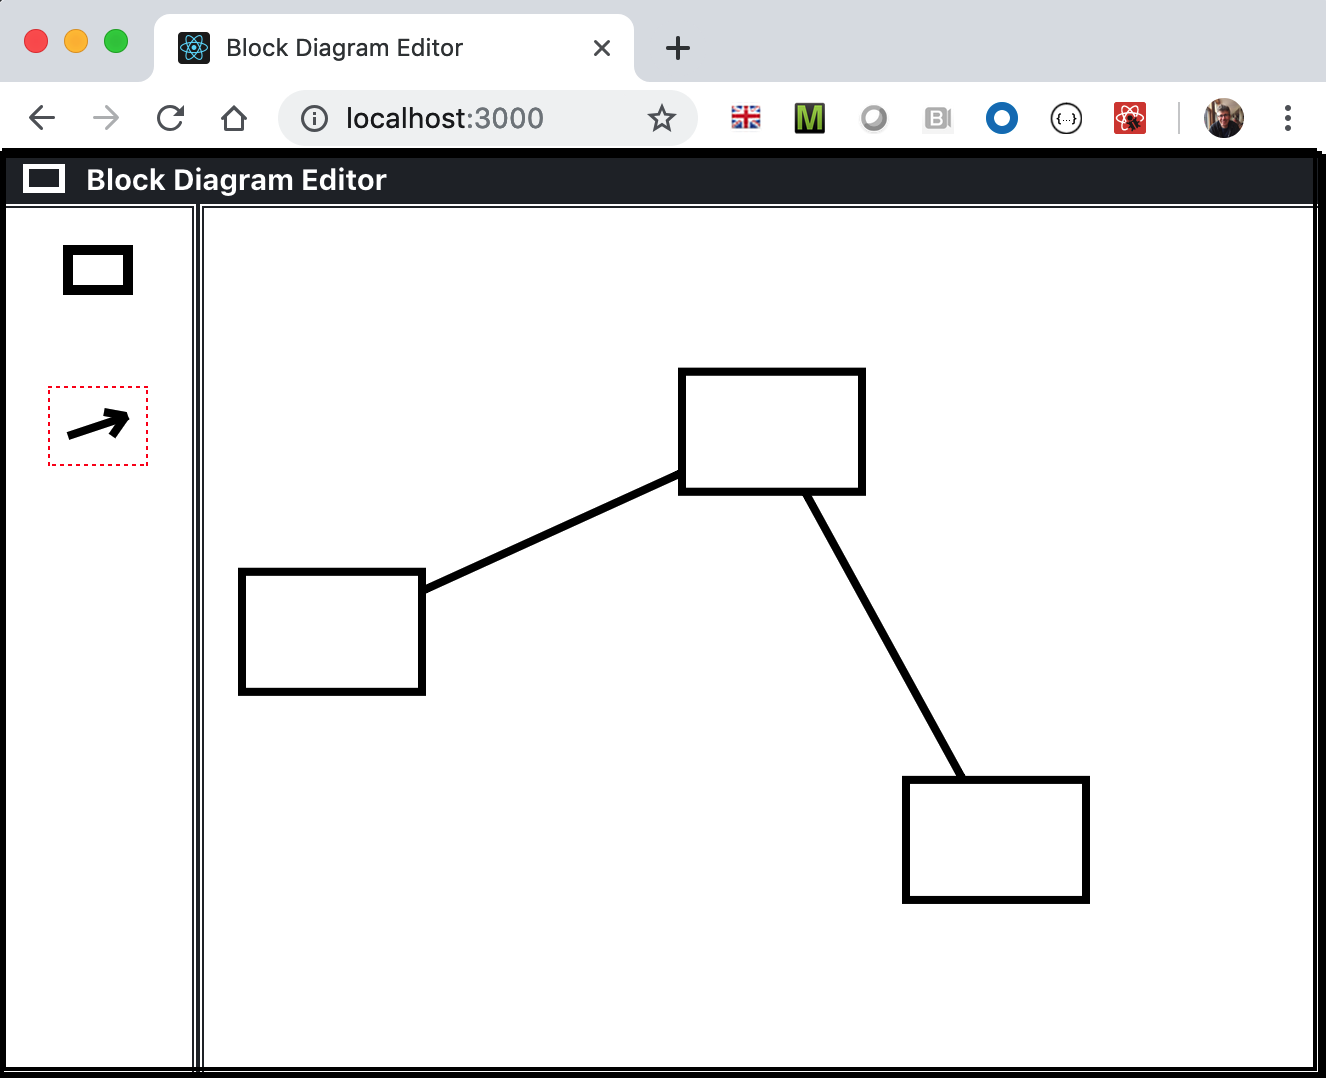
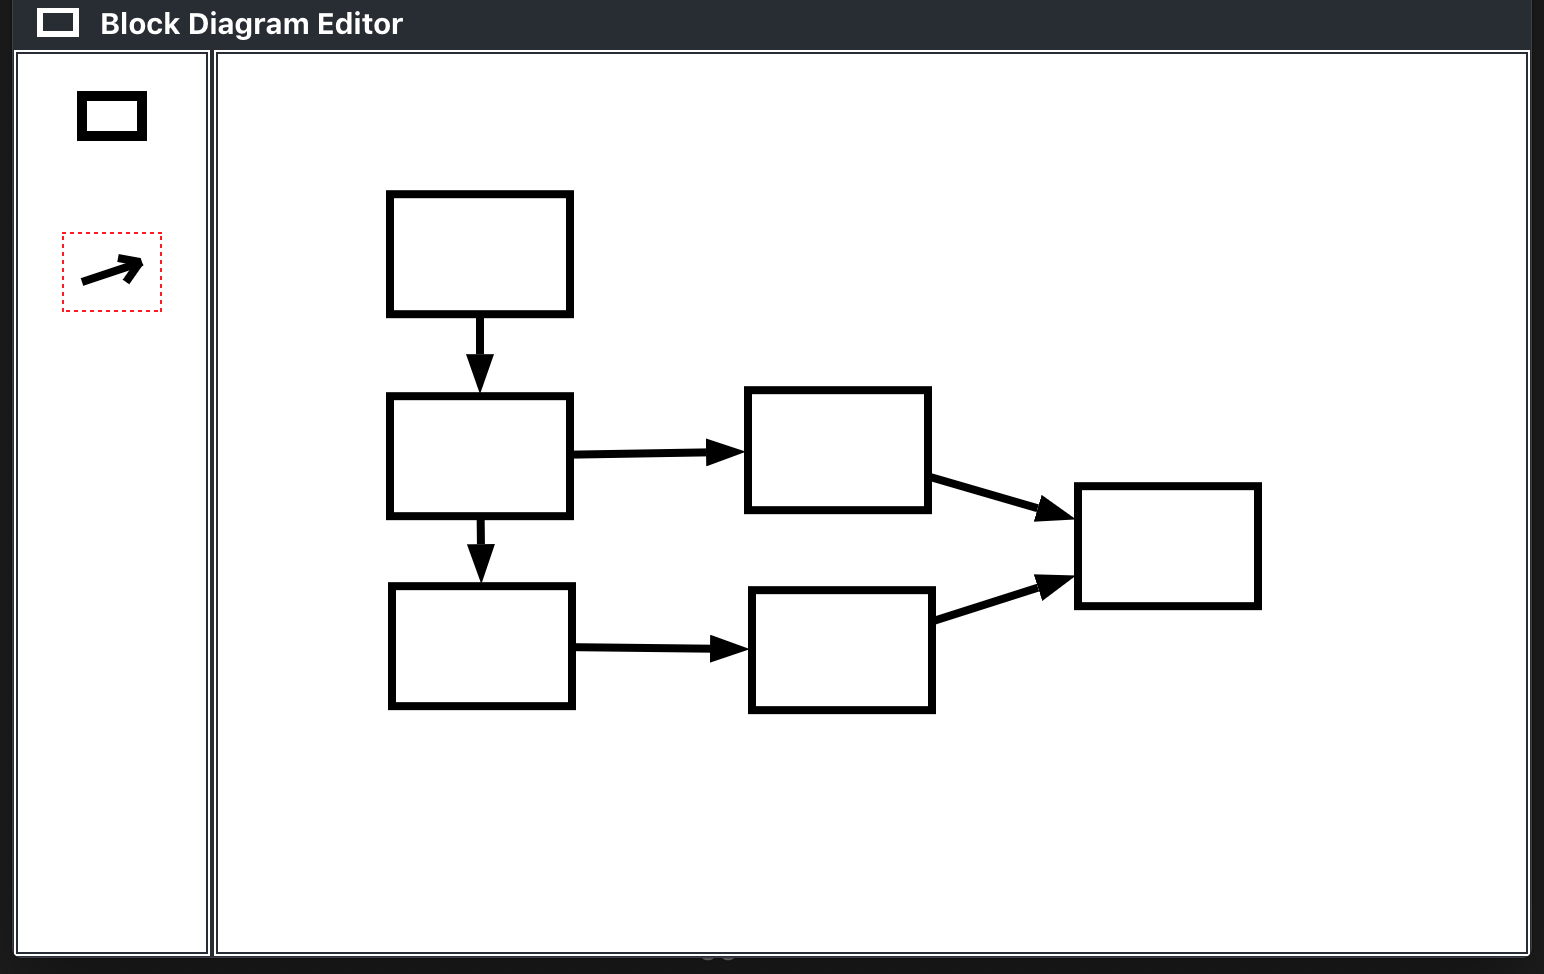
updated readme
updated readme

Changed region(s): [[0.0, 0.0, 1.0, 1.0], [0.6802, 0.6776, 0.8348, 0.8624], [0.0618, 0.3696, 0.0928, 0.4004]]

diff --git a/README.md b/README.md
@@ -1,6 +1,6 @@
 # Block Diagram Editor
 
-Hobby project to learn react.  A block diagram editor that lets you add blocks and join them with arrows.  Click on the canvas to add a block.  Click on the block to delete it.  Use arrows to connect the blocks.  Still under development (haven't added arrow tips yet).
+Hobby project to learn react.  A block diagram editor that lets you add blocks and join them with arrows.  Click on the canvas to add a block.  Click on the block to delete it.  Use arrows to connect the blocks.  
 
 <p  align="center">
     <img src="./images/block-diagram-editor.png" alt="Block Diagram Editor" width="50%" height="50%"/>
